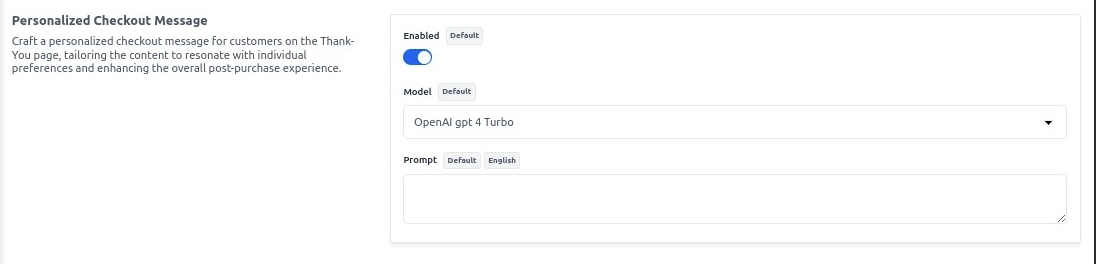
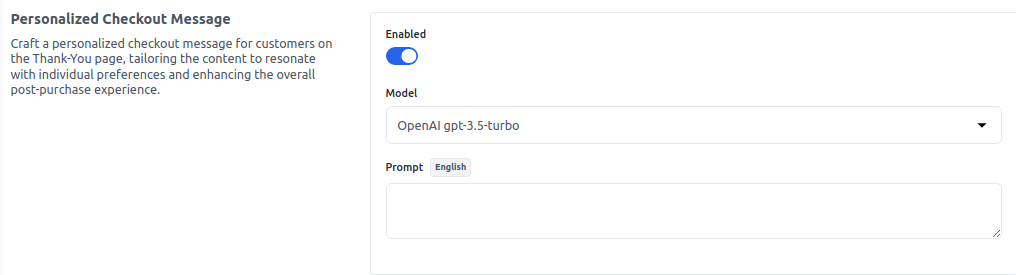
revert some changes.

diff --git a/docs/2.2.0/magic/magic-ai.md b/docs/2.2.0/magic/magic-ai.md
@@ -11,7 +11,7 @@ With Magic AI, store owners can effortlessly generate engaging **Products, Categ
 
 ### In Bagisto 2.2.0 it provides Native Support to various LLMs.
 
-**A) For Content** – GPT-4o, OpenAI GPT-4o Mini, Gemini, Llama 3.3 (70B), Mistral, Phi 4, Llama 3.2 (1B and 3B), Llama 3.1 (8B, 70B, and 405B), Qwen 2.5, LLaVA, Llama 3.2 Vision (90B, 11B), Grok (xAI), Deepseek.
+**A) For Content** – OpenAI gpt-3.5-turbo, Llama 2, Mistral, Dolphin Phi, Phi-2, Starling, Llama 2 Uncensored, Llama 2 13B, Llama 2 70B, Orca Mini, Vicuna, LLaVA.
 
 
 ![Magic Content](../../assets/2.2.0/images/magic-ai/content.png)
